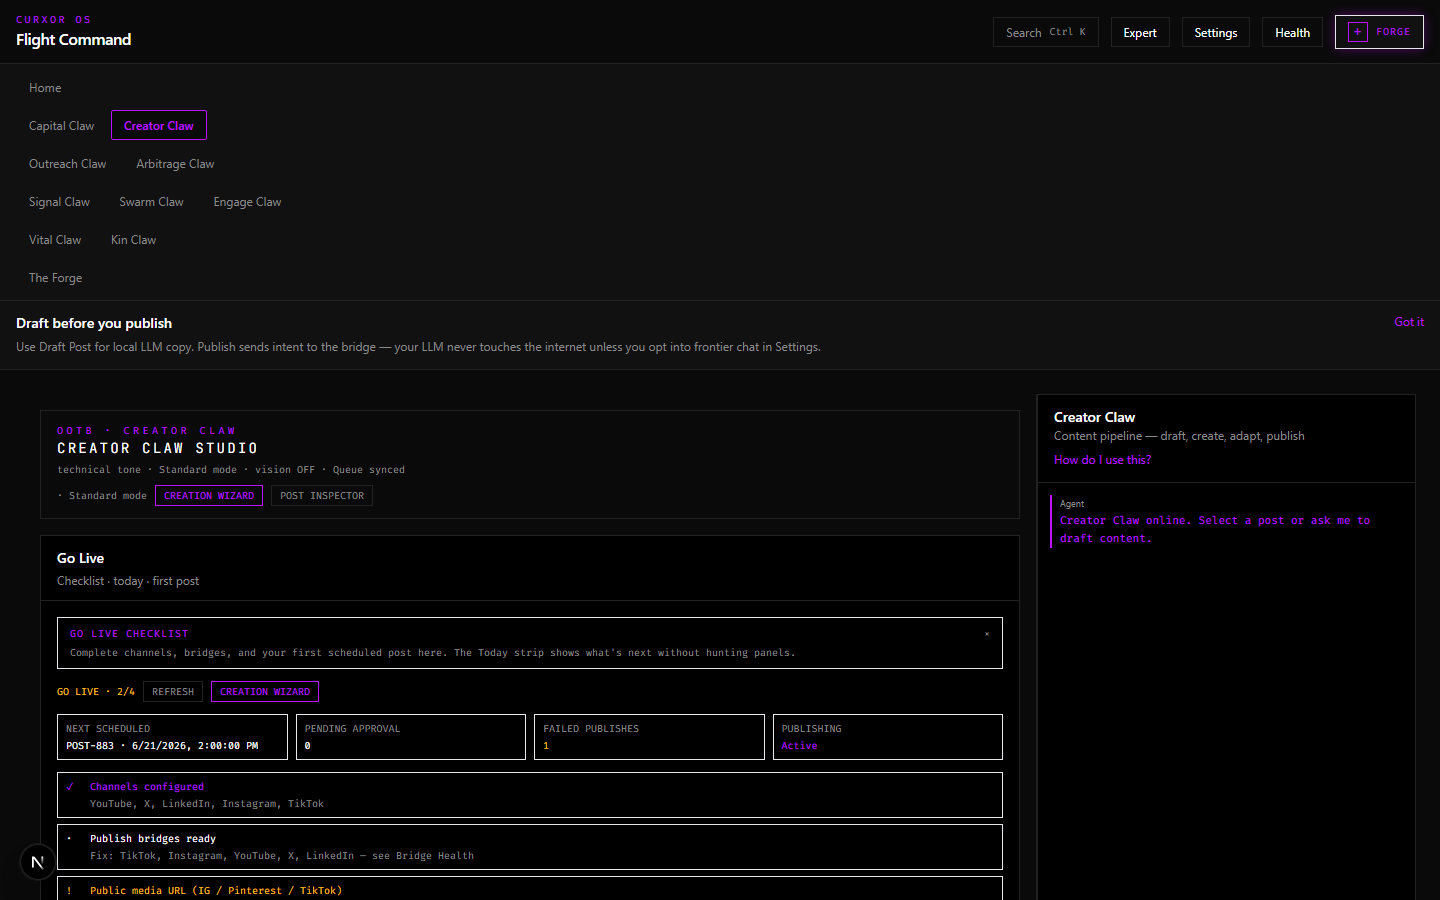
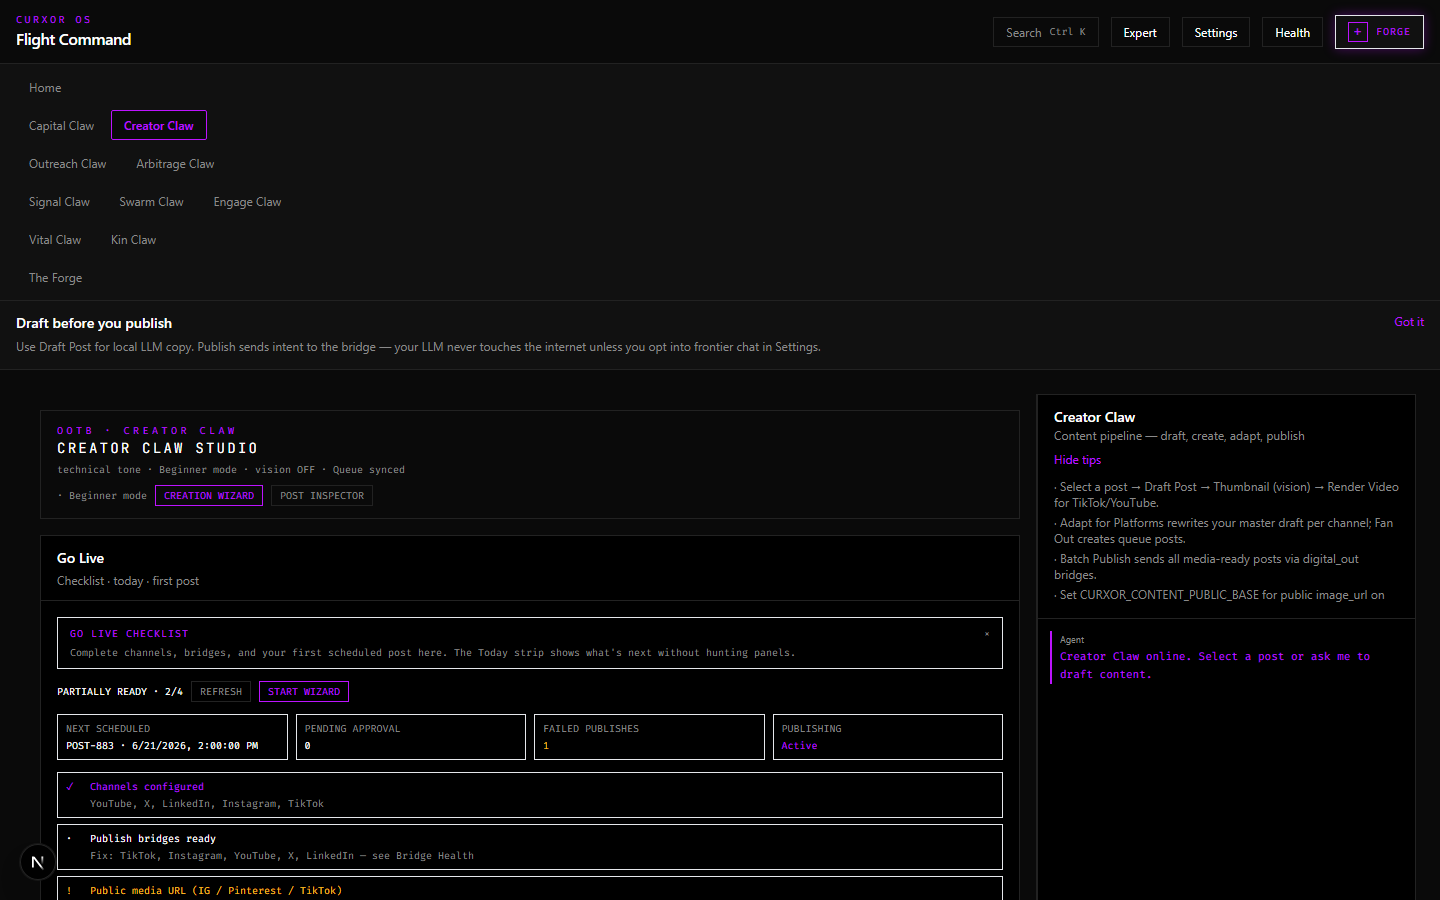
Sync storefront to Creator Claw v0.3.0 build.
Refresh demo screenshots, marketing copy for 5-step wizard and 61 QA checks, and appliance sync for OS 0.3.0 release highlights.

Changed region(s): [[0.7188, 0.4978, 0.9688, 0.6844], [0.7188, 0.6844, 0.9375, 0.7778], [0.0312, 0.7467, 0.25, 0.7778]]

diff --git a/src/lib/persona-pages.ts b/src/lib/persona-pages.ts
@@ -60,7 +60,7 @@ export const personaPages: PersonaPage[] = [
       "Creator Claw — draft, adapt, and publish across TikTok, Instagram, YouTube, and X. Local inference, eno2 bridges only.",
     eyebrow: "FOR CREATORS",
     headline: "Draft locally. Publish on eno2 only.",
-    lead: "Creator Claw is a sovereign social operator — Go Live checklist, content queue, calendar, engage inbox, and multi-platform bridges. No OpenAI bill for every caption.",
+    lead: "Creator Claw v0.3 is a sovereign social operator — 5-step Creation Wizard, Go Live checklist with strict bridge-ready semantics, 10 live publish bridges, and closed-loop engage → analytics → planner growth.",
     painPoints: [
       "Token rent on every draft and rewrite",
       "Platform lock-in on cloud schedulers",
@@ -69,7 +69,7 @@ export const personaPages: PersonaPage[] = [
     claws: [
       {
         name: "Creator Claw",
-        body: "Draft, adapt, fan out, schedule, and publish — video renders, bridge health, and engage loop on day one.",
+        body: "5-step Creation Wizard, Go Live checklist, bridge health, publish recovery, and 10 live platform bridges on eno2.",
       },
       {
         name: "Engage Claw",
@@ -83,9 +83,9 @@ export const personaPages: PersonaPage[] = [
     demoSrc: "/demo/08-creator-claw.png",
     demoAlt: "Creator Claw Go Live and queue",
     outcomes: [
-      "Multi-platform publish bridges (X, Meta, YouTube, TikTok, LinkedIn, …)",
-      "Optional approve-before-publish via dashboard or Telegram",
-      "Learned scheduling from your own metrics — not generic cloud heuristics",
+      "5-step Creation Wizard with pre-flight and learned best-time scheduling",
+      "10 live publish bridges with Go Live strict-ready semantics",
+      "Approve-before-publish via dashboard, Telegram, or Slack operators",
     ],
     compareLinks: [
       { href: "/compare/clawbox", label: "vs ClawBox" },

diff --git a/src/lib/config.ts b/src/lib/config.ts
@@ -23,7 +23,7 @@ export const siteConfig = {
   heroSubtext:
     "The independent computer for digital employees — 126 TOPS local inference, dual 10GbE, and strategies that stay on your metal.",
   heroCreatorBadge:
-    "Creator Claw — draft, adapt, publish on eno2 only",
+    "Creator Claw v0.3 — 5-step wizard · Go Live · 10 publish bridges",
   preOrderPrice: "$3,999",
   preOrderPriceUsd: 3999,
   stripeCheckoutUrl:
@@ -159,7 +159,7 @@ export const specColumns = [
     label: "CLAW ENGINE",
     items: [
       "Home hub — pick a Claw, chat or tap skills",
-      "Creator Claw — queue, calendar, engage loop, multi-platform bridges",
+      "Creator Claw — 5-step Creation Wizard, Go Live checklist, 10 publish bridges, engage loop",
       "Unified inbox — dashboard + Telegram · Slack · WhatsApp · iMessage",
       "Settings — enable Claws, channels, intelligence, themes",
       "Claw Context mesh — Vital, Kin, Optimus share context",
@@ -244,7 +244,7 @@ export const faqItems = [
   {
     question: "What does Creator Claw do on day one?",
     answer:
-      "Creator Claw is a sovereign social operator: draft and adapt posts locally, fan out to TikTok, Instagram, YouTube, X, and more, then publish through digital bridges on eno2 only. Go Live checklist, content calendar, engage inbox, bridge health, and optional approve-before-publish — Beginner, Standard, or Expert modes in Settings.",
+      "Creator Claw v0.3 is a sovereign social operator: a 5-step Creation Wizard (channel → draft → media → pre-flight → best-time schedule), Go Live checklist with strict bridge-ready semantics, 10 live publish bridges on eno2, bridge health, publish recovery, and optional approve-before-publish via dashboard, Telegram, or Slack. Beginner mode surfaces wizard and Go Live first; Standard and Expert unlock planner, campaigns, and analytics.",
   },
   {
     question: "Can Vital Claw sync with my smartwatch or health apps?",

diff --git a/src/lib/marketing.ts b/src/lib/marketing.ts
@@ -30,7 +30,7 @@ export const trustSignals = [
   },
 ] as const;
 
-export const socialProofLine = `CurXor OS ${applianceVersion} · 57 QA checks · MS-S1 MAX validation in progress`;
+export const socialProofLine = `CurXor OS ${applianceVersion} · 61 smoke + 12 user-flow QA checks · MS-S1 MAX validation in progress`;
 
 export const setupClaim =
   "Flight Command on day one — pick Claws in Settings, chat or tap skills. Live bridges need your credentials on eno2.";
@@ -78,7 +78,7 @@ export const personaCards = [
     id: "creators",
     eyebrow: "GROWTH",
     title: "Creators & indie hackers",
-    body: "Creator Claw — draft, adapt, and publish across social channels. Go Live checklist and bridge health on day one.",
+    body: "Creator Claw v0.3 — 5-step Creation Wizard, Go Live checklist, and 10 publish bridges. Draft locally, egress on eno2 only.",
     claw: "Creator Claw",
     href: "/for/creators",
     demo: "/demo/08-creator-claw.png",
@@ -149,7 +149,7 @@ export const creatorFlowShots = [
   {
     src: "/demo/creator/12-creation-wizard.png",
     title: "Creation wizard",
-    body: "Guided first-post flow — draft, attach media, schedule.",
+    body: "5 steps — channel, draft, media, pre-flight, best-time schedule.",
   },
   {
     src: "/demo/creator/13-bridge-health.png",

diff --git a/src/components/ScreenshotGallery.tsx b/src/components/ScreenshotGallery.tsx
@@ -40,7 +40,7 @@ const SHOTS = [
   {
     src: "/demo/08-creator-claw.png",
     title: "Creator Claw",
-    body: "Go Live checklist, content queue, bridge health, calendar, engage inbox, and publish recovery — draft locally, egress on eno2 only.",
+    body: "Creator Claw v0.3 — Go Live panel, 5-step Creation Wizard path, queue, and strict bridge-ready semantics.",
   },
 ] as const;
 

diff --git a/docs/APPLIANCE-AUDIT.md b/docs/APPLIANCE-AUDIT.md
@@ -1,7 +1,7 @@
 # CurXor OS — Full Appliance Audit (Holding Pattern)
 
 **Audit date:** June 2026  
-**Version:** `0.2.0` (`../curxor-os/version.json`)  
+**Version:** `0.3.0` (`../curxor-os/version.json`)  
 **Hardware status:** MS-S1 MAX not yet received — **no on-device validation**  
 **GTM site:** This repo (`curxor storefront`) — landing + pre-order live; see [SYNC.md](SYNC.md)
 
@@ -32,7 +32,7 @@ CurXor OS is a **coherent, installable appliance stack** with documentation, OTA
 | Hardware validation | ❌ Blocked | No ROCm/UMA/mesh benchmarks on target SKU |
 | Reproducible builds | ⚠️ Gap | No committed `pnpm-lock.yaml` in pillar 2/4 |
 | Security hardening | ⚠️ Partial | Dashboard on `0.0.0.0:3080`; APIs unauthenticated (LAN/captive OK) |
-| Tests / CI | ✅ Local QA | 57 checks — smoke, user flows, typecheck, production build (`qa-smoke.mjs`) |
+| Tests / CI | ✅ Local QA | 61 smoke + 12 user-flow checks — typecheck, production build (`qa-smoke.mjs`, `qa-user-flows.mjs`) |
 | Agent runtime | ✅ v0.2 | Workspace memory, skills, heartbeat, channel router → CCP inbox |
 | Messaging gateways | ✅ v0.2 | Telegram, Slack, WhatsApp, iMessage — user-configured in Settings |
 
@@ -44,7 +44,7 @@ CurXor OS is a **coherent, installable appliance stack** with documentation, OTA
 |-----|-------|--------------|----------|
 | The Forge | `/claw-forge` | The Forge | Claw provisioning wizard + local LLM recommend |
 | Capital Claw | `/my-capital` | Capital Claw | Mock portfolio + live digital receipts |
-| Creator Claw | `/my-content` | Creator Claw | Day-one queue, calendar, engage loop, bridge health, multi-platform publish |
+| Creator Claw | `/my-content` | Creator Claw | v0.3 day-one — 5-step wizard, Go Live, 10 bridges, engage loop, bootstrap API |
 | Outreach Claw | `/my-work` | Outreach Claw | Mock outbound / CRM UI |
 | Arbitrage Claw | `/my-shop` | Arbitrage Claw | Mock margin / fulfillment UI |
 | Signal Claw | `/optimus` | Signal Claw | Demo signal canvas |